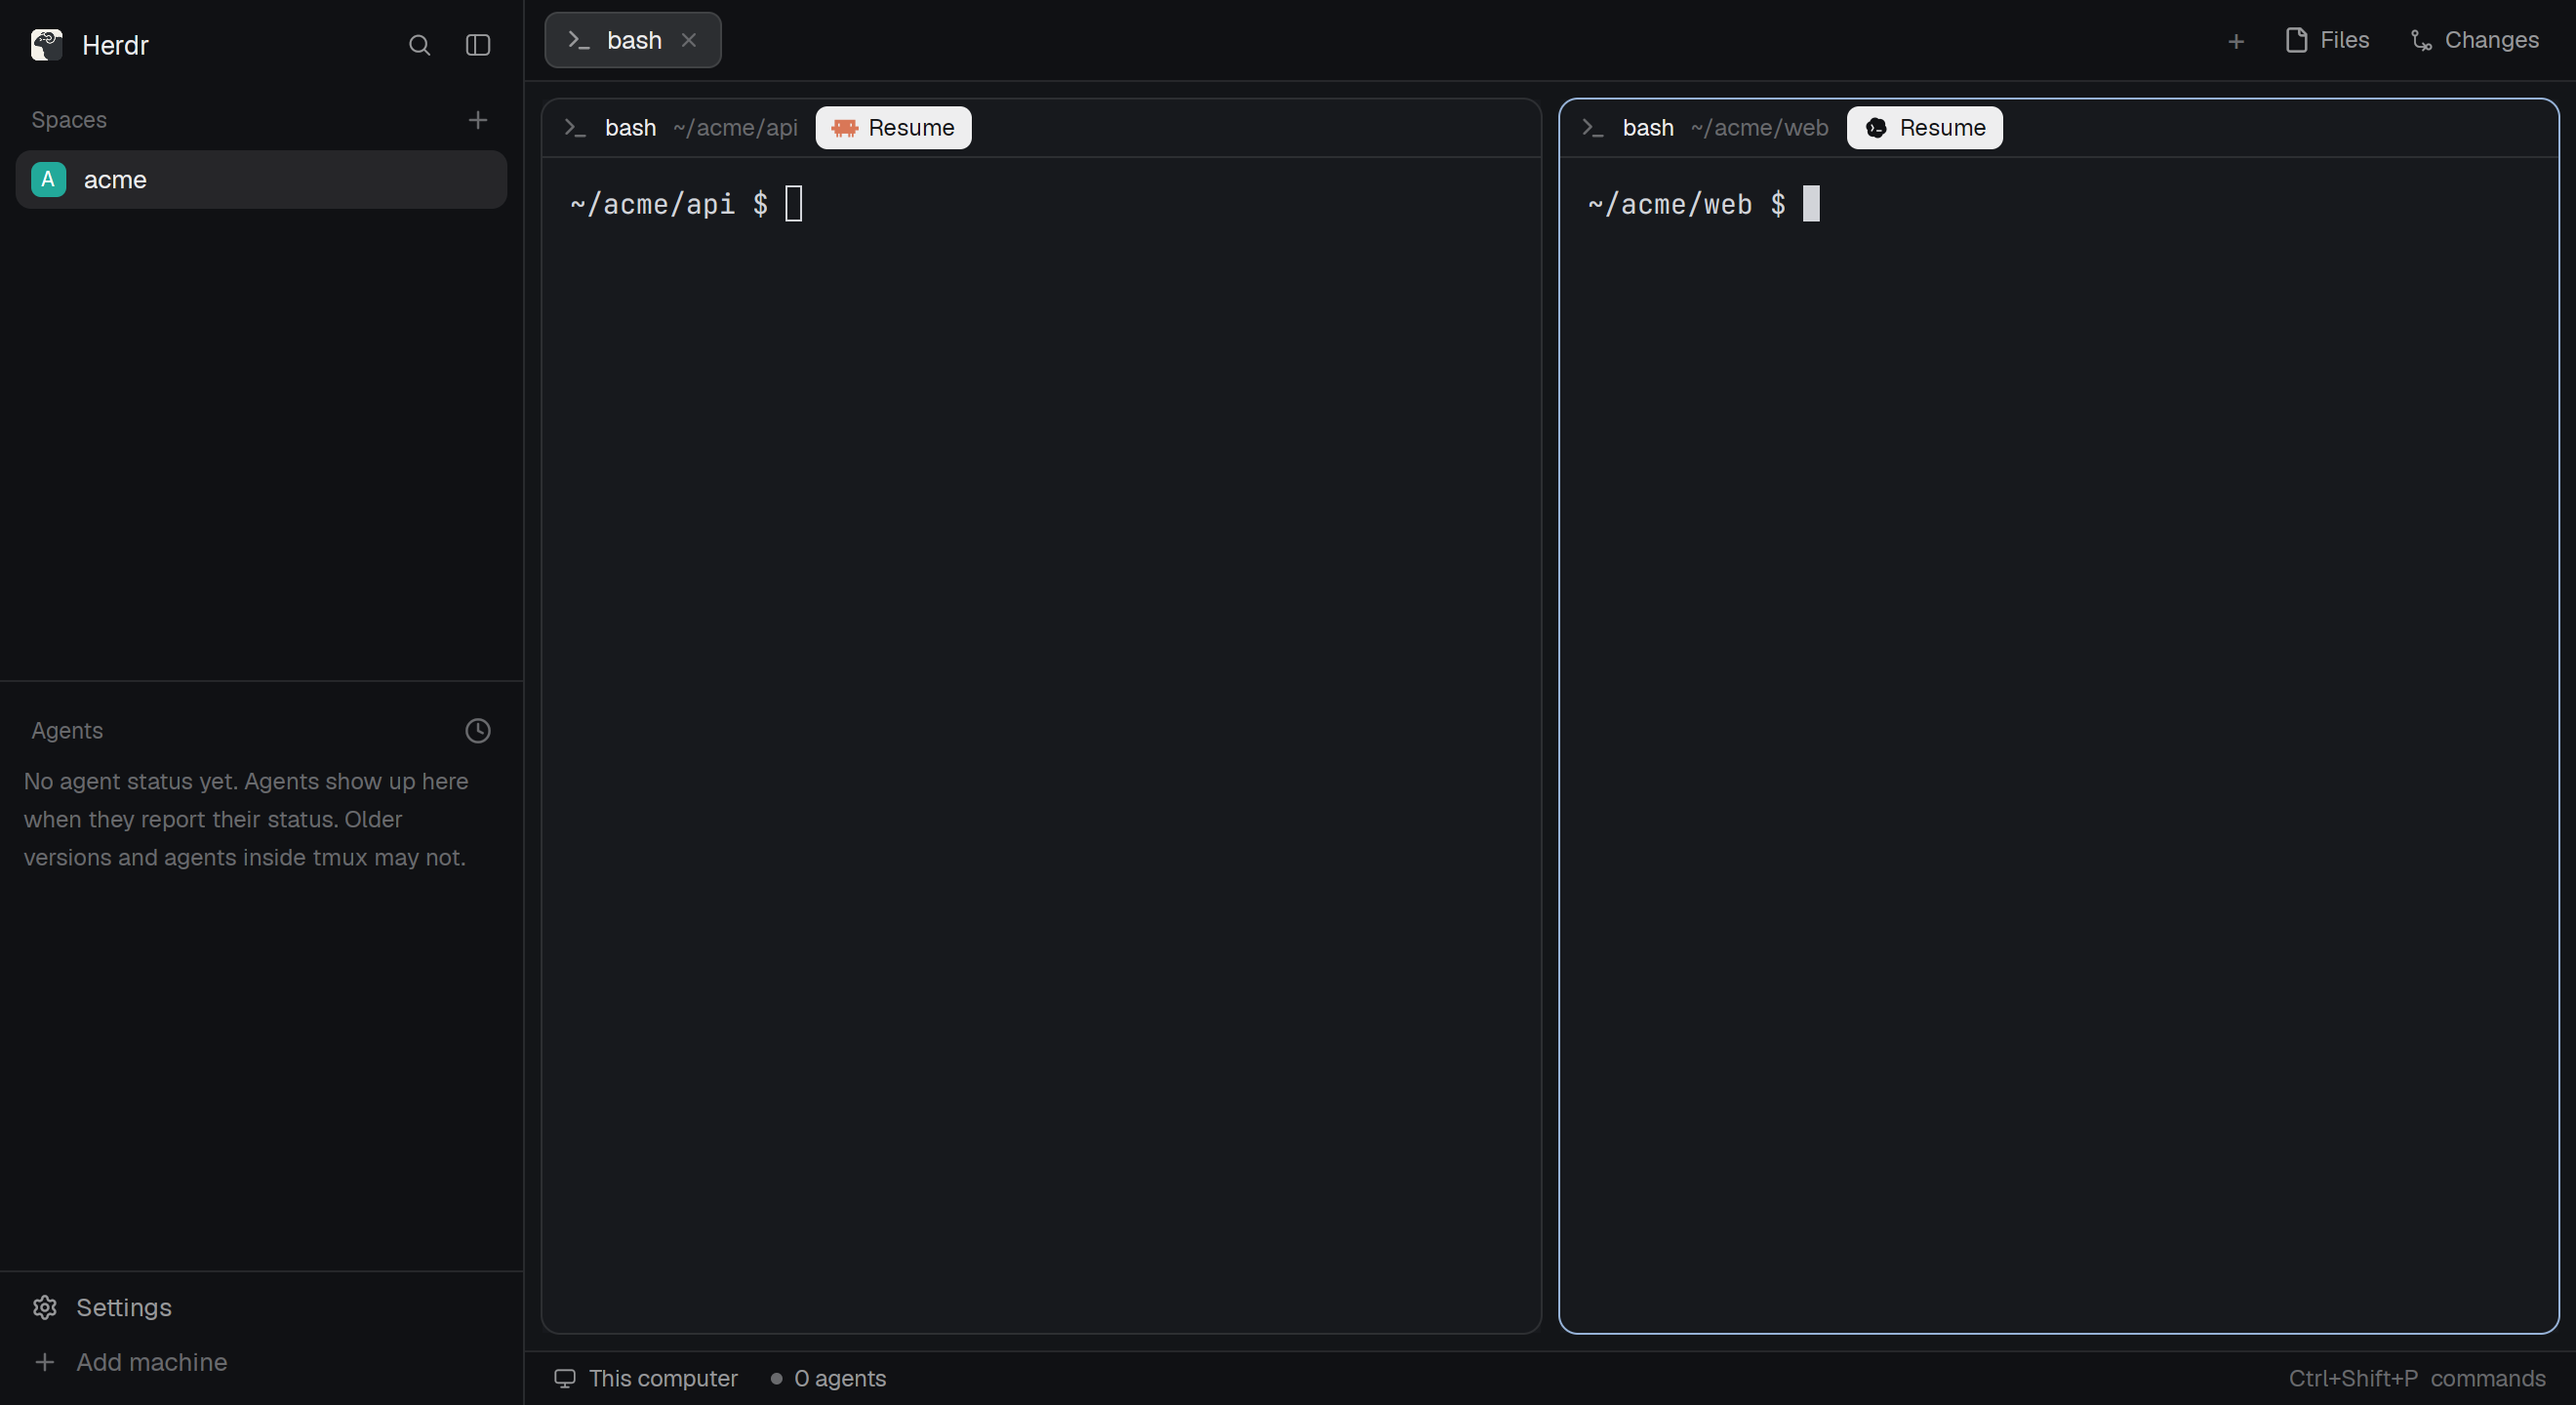
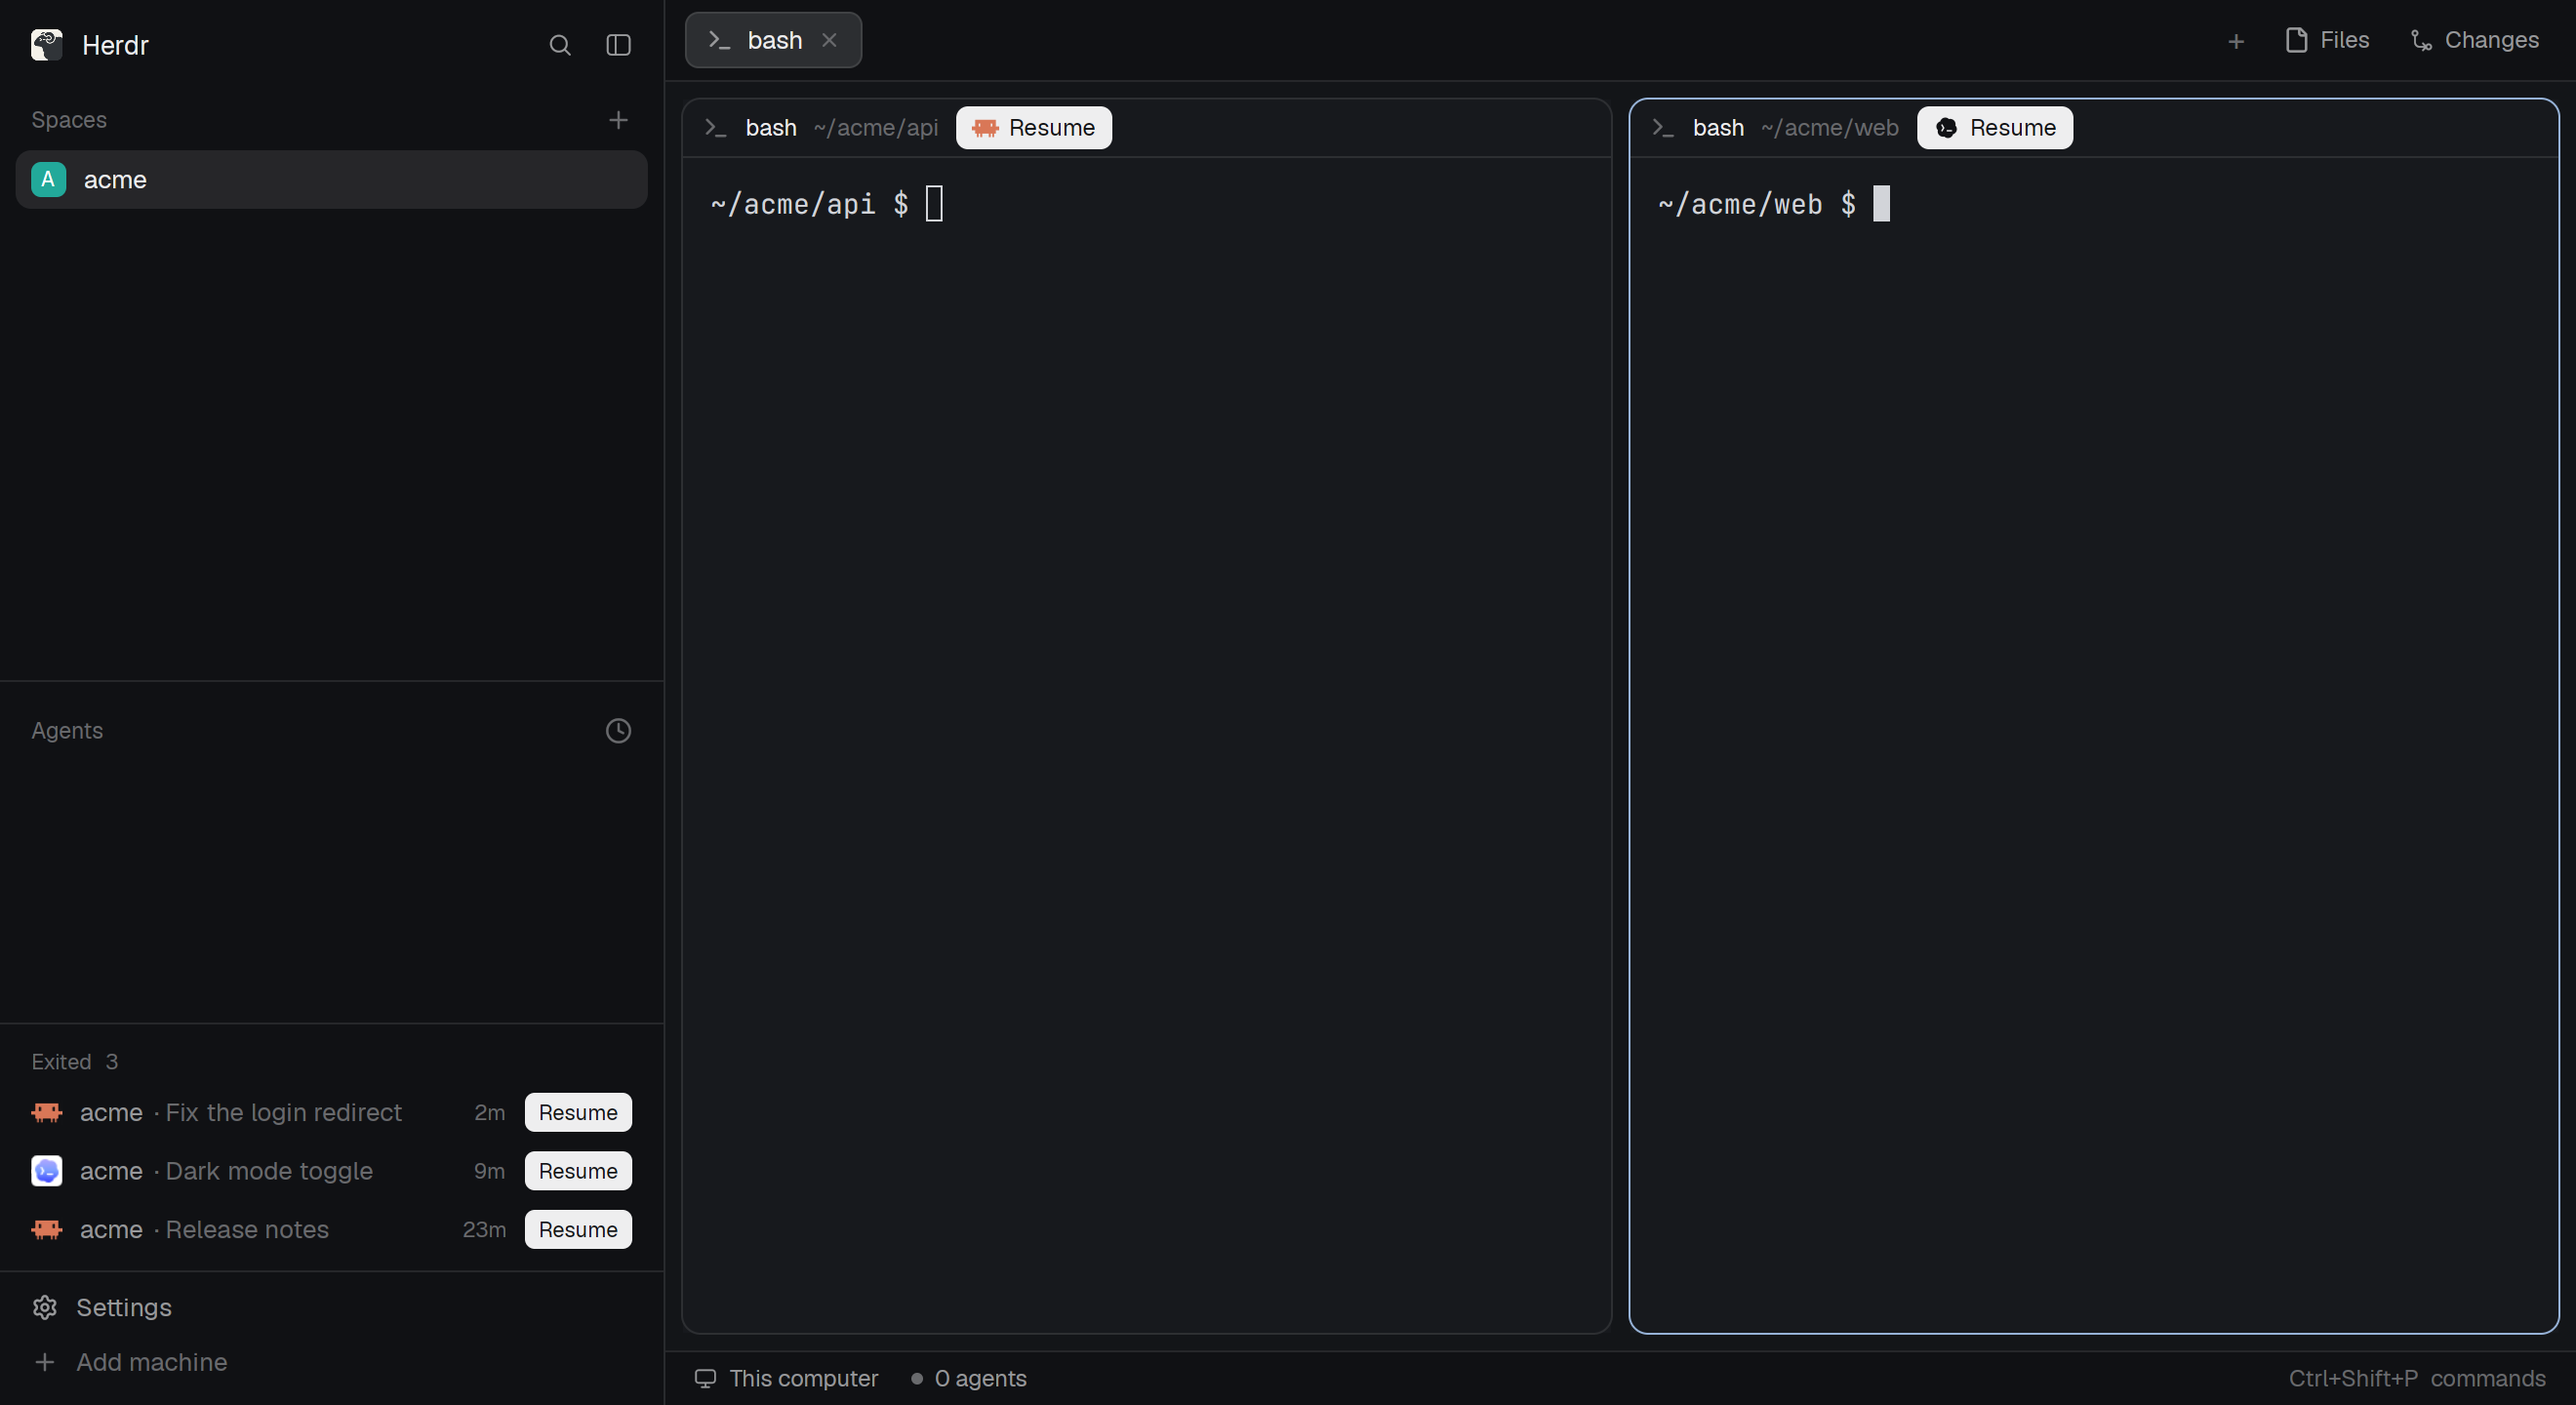
Show the Exited group in the preview

diff --git a/README.md b/README.md
@@ -1,6 +1,6 @@
 # Herdr Resume
 
-![Herdr Resume: a Resume button in the pane header, next to the folder](preview.png)
+![Herdr Resume: Resume buttons in the pane headers, and quit agents under Exited at the bottom of the Agents panel](preview.png)
 
 A **Resume** button in the pane header of the [Herdr](https://herdr.dev) desktop app. Quit Claude Code or Codex, and one click brings that terminal's last session back.
 
